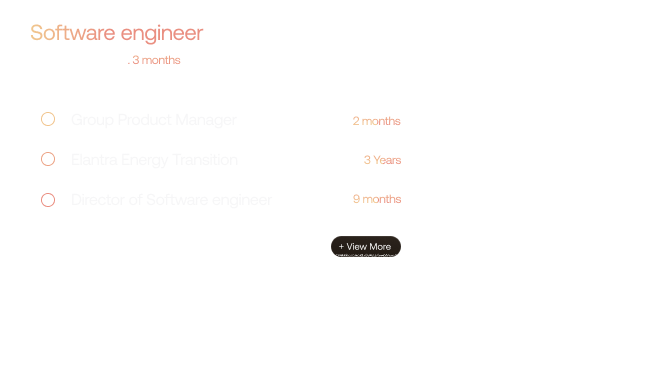
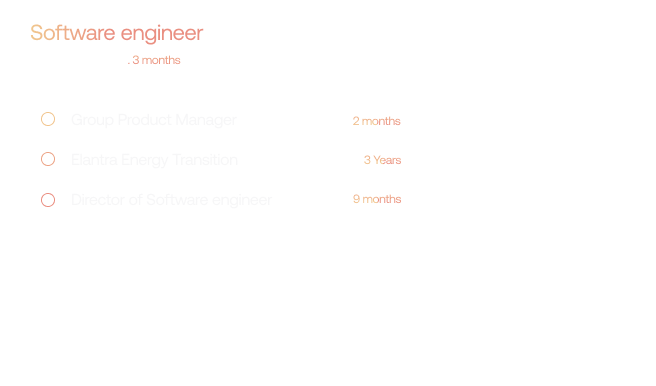
hover

Changed region(s): [[0.4878, 0.5907, 0.6098, 0.6839]]

diff --git a/src/components/BlockItem3/BlockItem3.tsx b/src/components/BlockItem3/BlockItem3.tsx
@@ -7,6 +7,18 @@ import cursor from '../../assets/images/block/block-3/cursor.svg'
 import cross from '../../assets/images/block/block-3/cross.svg'
 import dots from '../../assets/images/block/block-3/dots.svg'
 import inBtn from '../../assets/images/block/block-3/in.svg'
+import close from '../../assets/images/block/block-3/cross-2.svg'
+import minus from '../../assets/images/block/block-3/minus.svg'
+import open from '../../assets/images/block/block-3/open.svg'
+import circle from '../../assets/images/block/block-3/circle.svg'
+import circle2 from '../../assets/images/block/block-3/circle-2.svg'
+import plus from '../../assets/images/block/block-3/plus.svg'
+import sobaka from '../../assets/images/block/block-3/sobaka.svg'
+import calculator from '../../assets/images/block/block-3/calculator.svg'
+import phone from '../../assets/images/block/block-3/phone.svg'
+import light from '../../assets/images/block/block-3/light.svg'
+import btn from '../../assets/images/block/block-3/btn.png'
+import btn2 from '../../assets/images/block/block-3/btn2.png'
 import { motion as m } from "framer-motion"
 import { BLOCK_ITEM_3 } from '../../library/constants'
 import { Button2 } from '../Button2/Button2'
@@ -15,43 +27,114 @@ import { Button3 } from '../Button3/Button3'
 const BlockItem3 = () => {
   return (
     <m.div
-      className="absolute inset-0 w-full h-full px-[3%] pt-[13%]"
+      className="absolute inset-0 w-full h-full px-[3%] pt-[3%]"
     >
-      <div className="relative">
+      <div className="w-full flex items-start justify-between mb-[3%]">
+        <div className="flex">
+          <img
+            src={ close } alt="close"
+            className="cursor-pointer hover:scale-125 active:scale-95 transition-all duration-300 z-40"
+          />
+
+          <img
+            src={ minus } alt="minus"
+            className="cursor-pointer hover:scale-125 active:scale-95 transition-all duration-300 z-40 mx-2"
+          />
+
+          <img
+            src={ open } alt="open"
+            className="cursor-pointer hover:scale-125 active:scale-95 transition-all duration-300 z-40"
+          />
+        </div>
+
+        <div className="flex z-40">
+          <button
+            className="
+              relative flex items-center justify-center md:w-10 md:h-10 border border-[#45413E] rounded-[10px] mr-2 group
+              bg-gradient-to-b from-[#1F1B19] to-[#171310]/0
+            "
+          >
+            <img src={ circle } alt="circle" className="group-hover:scale-125 group-active:scale-95 transition-all duration-300" />
+          </button>
+
+          <div className="flex items-center justify-center md:h-10 border border-[#45413E] rounded-[10px]">
+            <button className="h-full rounded-l-[10px] bg-gradient-to-b from-[#1F1B19] to-[#171310]/0 px-3 group">
+              <img src={ plus } alt="plus" className="group-hover:scale-125 group-active:scale-95 transition-all duration-300" />
+            </button>
+            <div className="w-0.5 h-full bg-gradient-to-b from-[#18130e] to-[#18130e]/30" />
+
+            <button className="h-full bg-gradient-to-b from-[#1F1B19] to-[#171310]/0 px-3 group">
+              <img src={ sobaka } alt="sobaka" className="group-hover:scale-125 group-active:scale-95 transition-all duration-300" />
+            </button>
+            <div className="w-0.5 h-full bg-gradient-to-b from-[#18130e] to-[#18130e]/30" />
+
+            <button className="h-full rounded-r-[10px] bg-gradient-to-b from-[#1F1B19] to-[#171310]/0 px-3 group">
+              <img src={ calculator } alt="calculator" className="group-hover:scale-125 group-active:scale-95 transition-all duration-300" />
+            </button>
+          </div>
+        </div>
+
+      </div>
+
+      <m.div
+        initial={{ opacity: 0, scale: 0.8 }}
+        whileInView={{ opacity: 1, scale: 1 }}
+        transition={{ delay: 1.2, duration: 0.8 }}
+        className="relative"
+      >
         <m.img
-          initial={{ opacity: 0, scale: 0.8 }}
-          whileInView={{ opacity: 1, scale: 1 }}
-          transition={{ delay: 1.2, duration: 0.8 }}
+          initial={{ opacity: 0, }}
+          whileInView={{ opacity: 1,  }}
+          transition={{ delay: 1.8, duration: 1 }}
           src={ item2 } alt="Block Item 2"
-          className="absolute bottom-0 right-[9.8%] w-[24.4%]"
+          className="absolute bottom-0 right-[9.8%] w-[24.4%] hover:scale-[102%] active:scale-95 z-40 cursor-pointer transition-all
+          duration-300"
         />
 
-        <m.div
-          initial={{ opacity: 0, scale: 0.8 }}
-          whileInView={{ opacity: 1, scale: 1 }}
-          transition={{ delay: 1.2, duration: 0.8 }}
+        <div
           className="
-            absolute top-[6%] right-[38%]
-            flex items-center justify-center
-            w-[4.566%] h-[7.76%] border border-[#604F45] rounded-full cursor-pointer transition-all
-            duration-700 shadow-lg border-opacity-0 hover:border-opacity-100 z-40
+            bg-gradient-to-b from-[#1F1B19] to-[#171310]/0
+            absolute top-[6%] right-[38%] flex items-center justify-center
+            w-[4.566%] h-[7.76%] border border-[#45413E] rounded-full cursor-pointer transition-all
+            duration-300 shadow-lg hover:scale-125 active:scale-95 z-40
           "
         >
           <img src={ cross } alt="Cross" />
-        </m.div>
+        </div>
+
+        <div
+          className="
+            bg-gradient-to-b from-[#3D2D21] to-[#171310]/0
+            absolute bottom-[3%] right-[12%] flex items-center justify-center
+            w-[4.566%] h-[7.76%] border border-[#45413E] rounded-full cursor-pointer transition-all
+            duration-300 shadow-lg hover:scale-125 active:scale-95 z-40
+          "
+        >
+          <img src={ phone } alt="Phone" />
+        </div>
 
         <m.div
           initial={{ opacity: 0, scale: 0.8 }}
           whileInView={{ opacity: 1, scale: 1 }}
-          transition={{ delay: 1.2, duration: 0.8 }}
+          transition={{ delay: 1.8, duration: 0.8 }}
           className="absolute flex flex-col top-[6%] right-[2.8%] w-[4.263%] h-[16.554%]"
         >
-          <div className="flex items-center justify-center border border-[#4C413B] w-full h-full rounded-md transition-all duration-700 border-opacity-0 hover:border-opacity-100 cursor-pointer z-40 mb-2">
+          <div
+            className="
+              bg-gradient-to-b from-[#352B25] to-[#171310]/0
+              flex items-center justify-center border border-[#45413E] w-full h-full rounded-md transition-all duration-300 shadow-lg hover:scale-125 active:scale-95 cursor-pointer z-40 mb-2
+            "
+          >
             <img src={ dots } alt="Dots" />
           </div>
 
-          <div className="flex items-center justify-center border border-[#4C413B] w-full h-full rounded-md transition-all duration-700 border-opacity-0 hover:border-opacity-100 cursor-pointer z-40">
-            <img src={ inBtn } alt="Dots" />
+          <div
+            className="
+              bg-gradient-to-b from-[#352B25] to-[#171310]/0
+              flex items-center justify-center border border-[#45413E] w-full h-full rounded-md transition-all duration-300 shadow-lg hover:scale-125 active:scale-95 cursor-pointer z-40
+            "
+          >
+            <img src={ inBtn } alt="In" />
           </div>
         </m.div>
 
@@ -83,7 +166,7 @@ const BlockItem3 = () => {
         <m.div
           initial={{ opacity: 0, scale: 0.8 }}
           whileInView={{ opacity: 1, scale: 1 }}
-          transition={{ delay: 1.2, duration: 0.8 }}
+          transition={{ delay: 1.4, duration: 0.8 }}
           className="absolute bottom-[10%] right-[43%] z-40"
         >
           <Button2>
@@ -96,36 +179,39 @@ const BlockItem3 = () => {
         <m.div
           initial={{ opacity: 0, scale: 0.8 }}
           whileInView={{ opacity: 1, scale: 1 }}
-          transition={{ delay: 1.4, duration: 0.8 }}
+          transition={{ delay: 1.6, duration: 0.8 }}
           className="
-            absolute flex flex-col bottom-0 right-[2.8%] w-[5.5%] h-[24.67%] rounded-full border border-[#604F45] shadow-lg bg-gradient-to-b from-[#422F23] to-[#3C2618] p-[3px]
+            absolute flex flex-col bottom-0 right-[2.8%] w-[5.5%] h-[24.67%] rounded-full border border-[#625248] shadow-lg bg-gradient-to-b from-[#422F23] to-[#3C2618] p-[3px]
           "
         >
           <div
             className="
               flex items-center justify-center
-              w-full h-full border border-[#604F45] rounded-full cursor-pointer transition-all duration-700 shadow-lg border-opacity-0 hover:border-opacity-100 z-40
+              hover:bg-gradient-to-b from-[#453226] to-[#171310]/0
+              w-full h-full border border-[#625248] rounded-full cursor-pointer transition-all duration-300 hover:shadow-lg border-opacity-0 hover:border-opacity-100 z-40 group
             "
           >
-            <img src={ moon } alt="Moon" />
-          </div>
-          
-          <div
-            className="
-              flex items-center justify-center
-              w-full h-full border border-[#604F45] rounded-full cursor-pointer transition-all duration-700 shadow-lg my-[3px] border-opacity-0 hover:border-opacity-100 z-40
-            "
-          >
-            <img src={ pc } alt="PC" />
+            <img src={ moon } alt="Moon" className="group-hover:scale-125 group-active:scale-95 transition-all duration-300" />
           </div>
 
           <div
             className="
               flex items-center justify-center
-              w-full h-full border border-[#604F45] rounded-full cursor-pointer transition-all duration-700 shadow-lg border-opacity-0 hover:border-opacity-100 z-40
+              hover:bg-gradient-to-b from-[#453226] to-[#171310]/0
+              w-full h-full border border-[#625248] rounded-full cursor-pointer transition-all duration-300 hover:shadow-lg border-opacity-0 hover:border-opacity-100 z-40 group
             "
           >
-            <img src={ sun } alt="Sun" />
+            <img src={ pc } alt="PC" className="group-hover:scale-125 group-active:scale-95 transition-all duration-300" />
+          </div>
+
+          <div
+            className="
+              flex items-center justify-center
+              hover:bg-gradient-to-b from-[#453226] to-[#171310]/0
+              w-full h-full border border-[#625248] rounded-full cursor-pointer transition-all duration-300 hover:shadow-lg border-opacity-0 hover:border-opacity-100 z-40 group
+            "
+          >
+            <img src={ sun } alt="Sun" className="group-hover:scale-125 group-active:scale-95 transition-all duration-300" />
           </div>
         </m.div>
 
@@ -134,7 +220,30 @@ const BlockItem3 = () => {
           src={ item } alt="Block Item"
           className="w-full"
         />
-      </div>
+
+        <img
+          src={ btn2 } alt="Button"
+          className="absolute w-[10.36%] cursor-pointer z-40 bottom-[-22%] left-0 hover:scale-105 active:scale-95 transition-all duration-300"
+        />
+
+        <div
+          className="
+            absolute bottom-[-22.4%] left-[11.8%] w-[4.7%] h-[8%]
+            bg-gradient-to-b from-[#352B25] to-[#171310]/0
+            flex items-center justify-center border border-[#45413E] rounded-md transition-all duration-300 shadow-lg hover:scale-110 active:scale-95 cursor-pointer z-40 mb-2 group
+          "
+        >
+          <img src={ light } alt="light" className="group-hover:scale-110" />
+        </div>
+
+        <div className="absolute bottom-[31.4%] right-[38.6%] cursor-pointer z-40">
+          <img src={ btn } alt="Button" className="w-[90%] md:w-full hover:scale-125 active:scale-95 z-40  transition-all duration-300" />
+        </div>
+
+        <div className="absolute bottom-[-19.4%] right-[-2%] cursor-pointer z-40">
+          <img src={ circle2 } alt="Circle 2" className="w-[96%] hover:scale-125 active:scale-95 z-40  transition-all duration-300" />
+        </div>
+      </m.div>
     </m.div>
   )
 }
